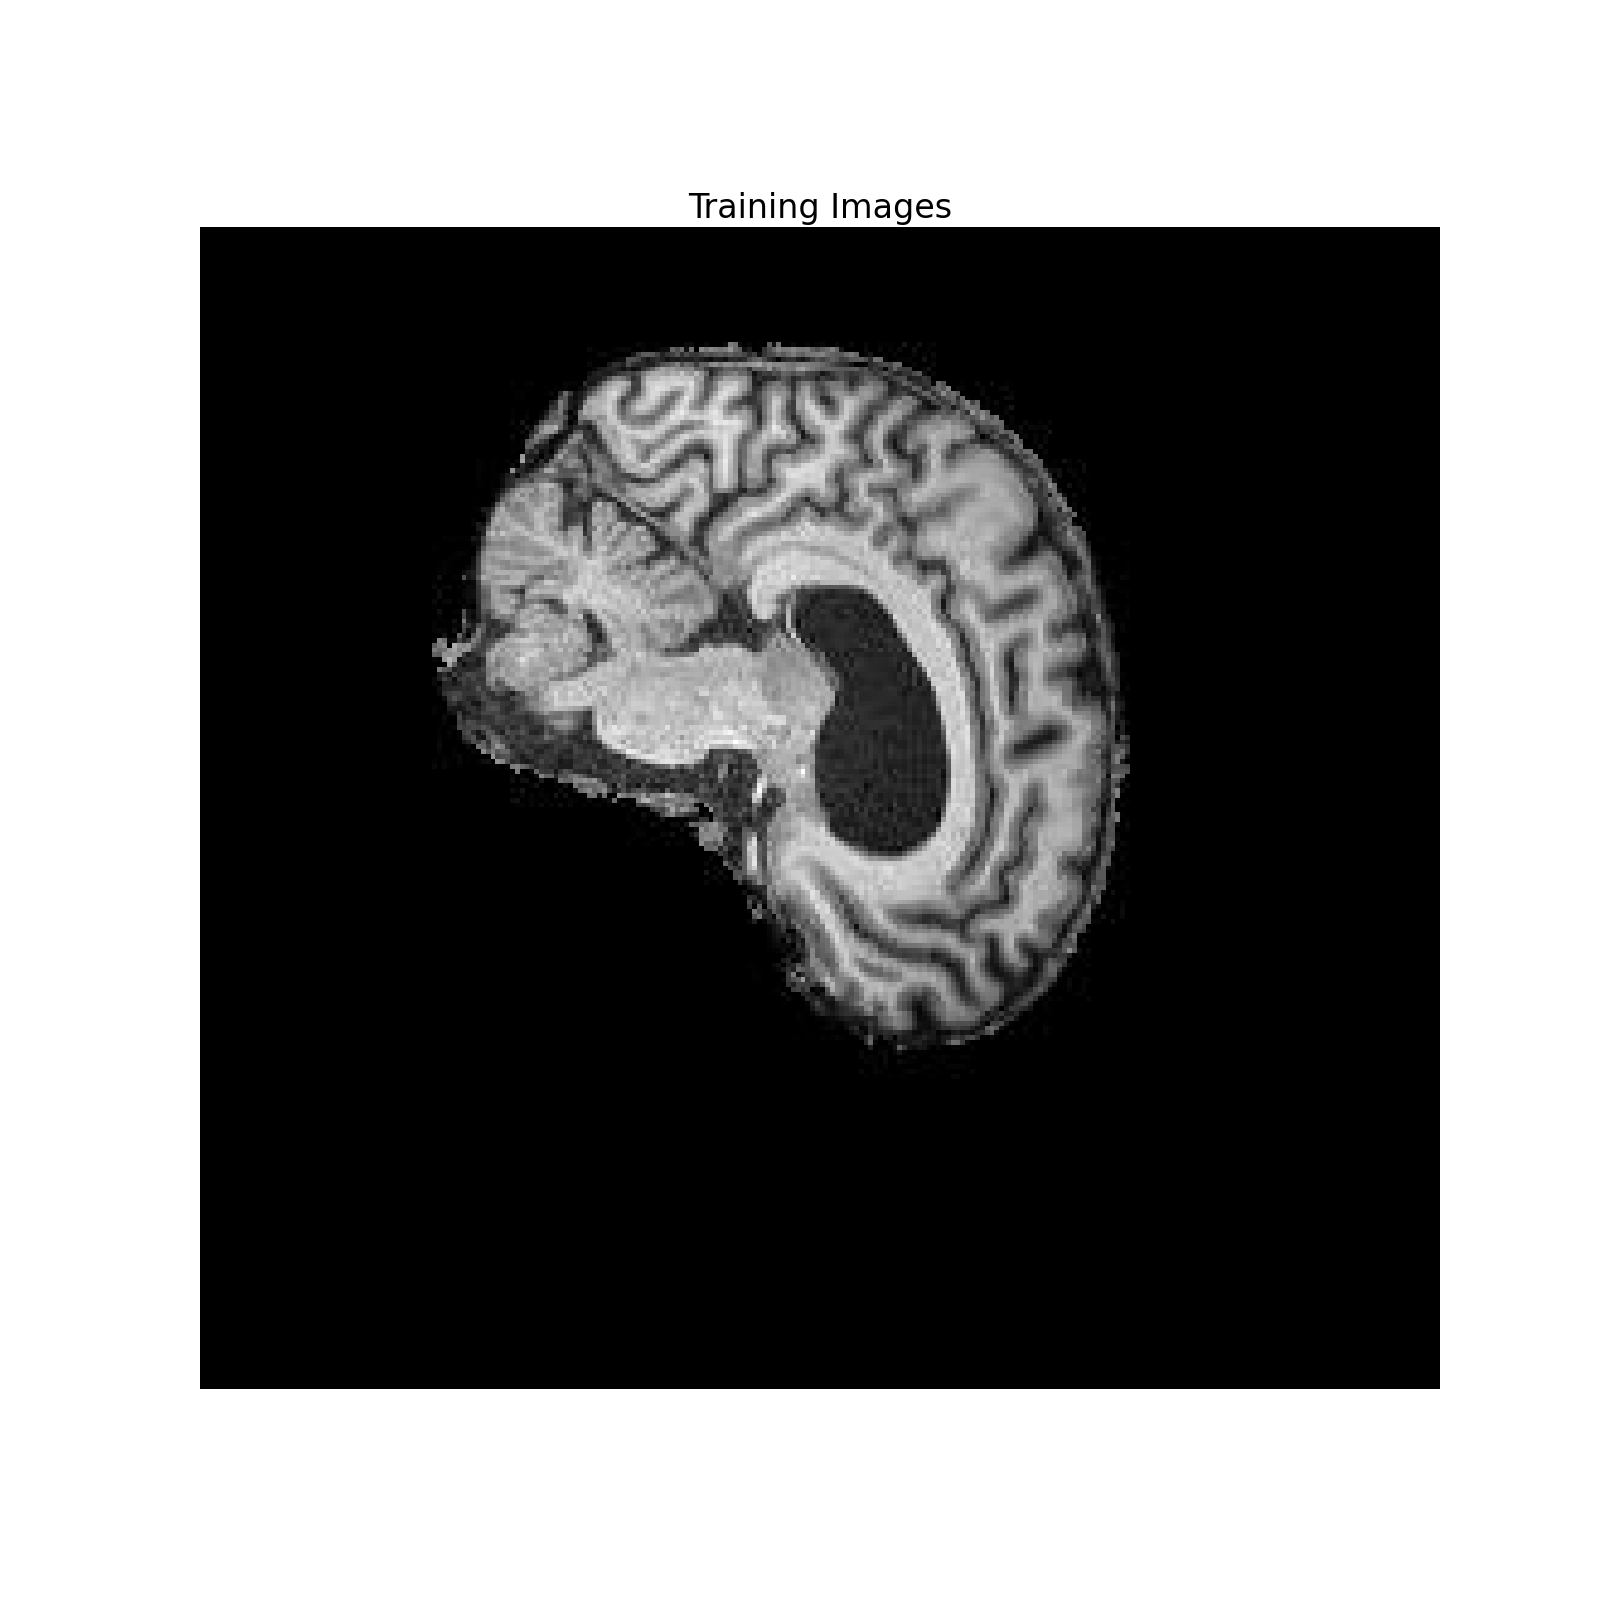
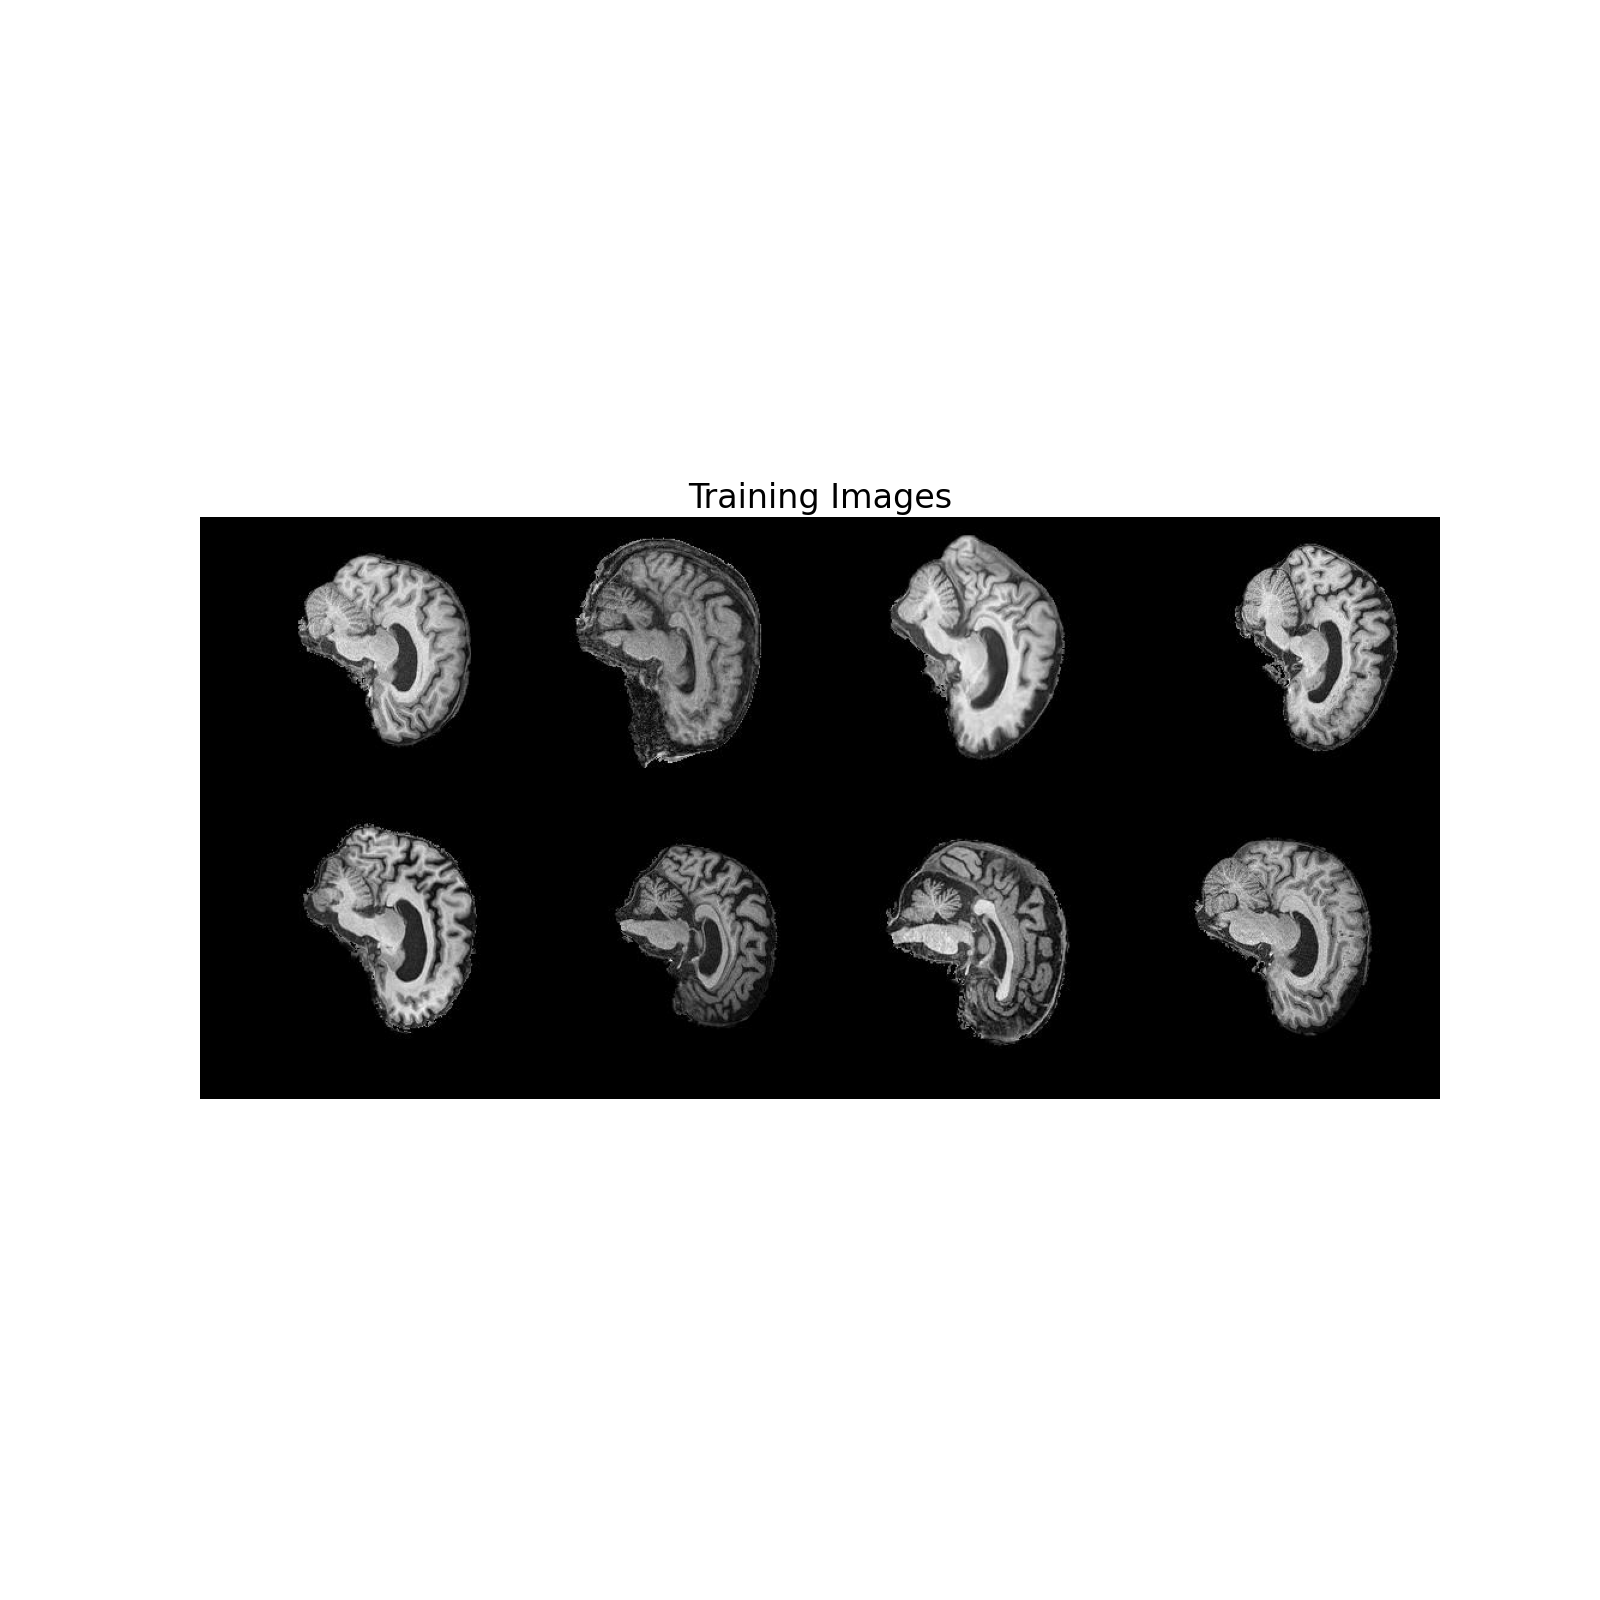
Fix to training images to save 8 instead of 1

diff --git a/recognition/s4744784/dataset.py b/recognition/s4744784/dataset.py
@@ -41,13 +41,14 @@ def load_train_data(path: str):
 
     # Plot some training images
     real_batch = next(iter(train_loader))
+    num_images = 32
     plt.figure(figsize=(16, 16)) 
     plt.axis("off")
     plt.title("Training Images", fontsize=24)
     plt.imshow(
         np.transpose(
             vutils.make_grid(
-                real_batch[0][0].to(device)[:16], nrow=4, padding=2, normalize=True 
+                real_batch[0][:num_images], nrow=4, padding=2, normalize=True 
             ).cpu(),
             (1, 2, 0),
         )
@@ -56,6 +57,7 @@ def load_train_data(path: str):
 
     print("Training image picture created!")
     return train_loader
+
 
 
 def load_test_data(path: str):
